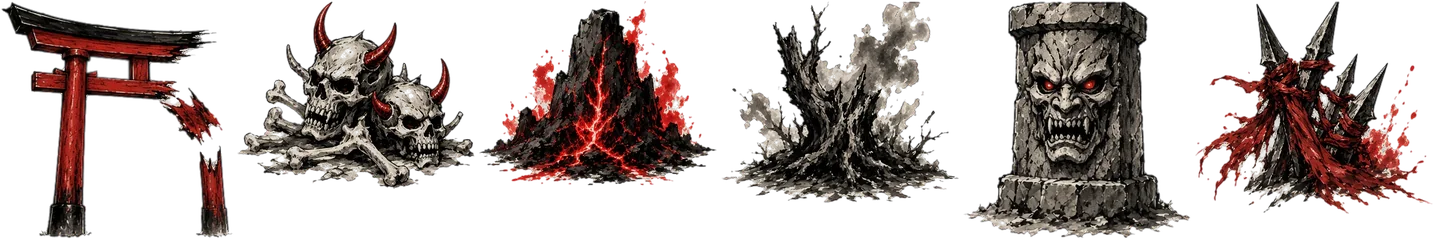
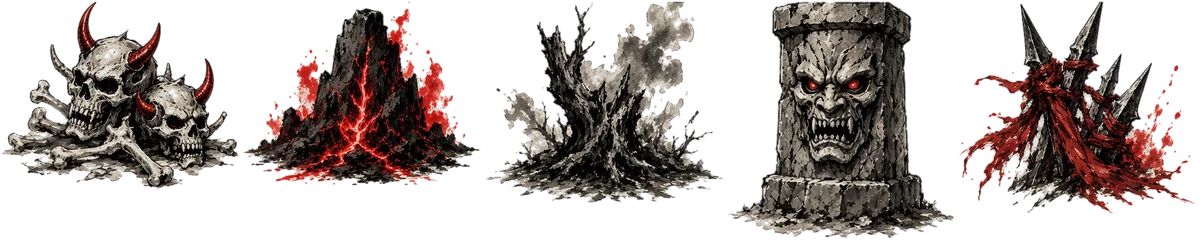
v3.2.3: remove the small torii gate props from the hell-gate and night-shrine scatter pools (painted background torii kept); seeded scenes refill from the remaining props

diff --git a/stage.js b/stage.js
@@ -48,6 +48,7 @@ export function createStage() {
   const sprites = {};
   const wx = createWeather();
   let lastQ = 'full';
+  let propInfo = null; // last bake's prop scatter (for tests)
   // props that carry a flame: frame index -> light height (fraction of prop height)
   const LANTERNS = { onryo: { 0: 0.6 }, shogun: { 0: 0.66 } };
 
@@ -132,6 +133,7 @@ export function createStage() {
       placed.push({ X, Y, dep, k, flip, sz });
     }
     placed.sort((a, b) => a.Y - b.Y);
+    propInfo = { theme: T.key, want: n, placed: placed.map((p) => p.k), pool: fr.length };
     const lights = [];
     for (const p of placed) {
       const f = fr[p.k], depth = p.dep;
@@ -401,6 +403,7 @@ export function createStage() {
     get _lastCam() { return bakeCam; },
     get theme() { return theme; },
     get weather() { return wx.info; },
+    get props() { return propInfo; },
     get block() { return block; },
     get transitioning() { return !!prev; },
     drawTransition, drawAmbient, drawBanner,

diff --git a/sw.js b/sw.js
@@ -1,7 +1,7 @@
 // Asura service worker — precaches the app shell so the game runs fully offline.
 // Bump VERSION on every release; the page shows "New version, tap to refresh".
 // Saves live in localStorage, which this worker never touches.
-const VERSION = 'asura-3.2.2';
+const VERSION = 'asura-3.2.3';
 // later stage themes are fetched lazily by the game and cached on first use; they are
 // also warmed in the background after activation so the whole game works offline
 const THEMES_LATER = ['tengu', 'shogun', 'orochi', 'onryo'].flatMap((t) => [`./assets/themes/${t}-bg.webp`, `./assets/themes/${t}-props.webp`]);

diff --git a/main.js b/main.js
@@ -6,7 +6,7 @@ import { createRenderer, fmt } from './render.js';
 const SAVE_KEY = 'asura-idle-save-v1';
 const PREFS_KEY = 'asura-idle-prefs-v1';
 const AUTOSAVE_MS = 5000;
-const APP_VERSION = '3.2.2'; // keep in step with VERSION in sw.js
+const APP_VERSION = '3.2.3'; // keep in step with VERSION in sw.js
 
 const UPS = {
   damage:   { name: 'Wrath',        desc: 'Raw striking power. Doubles every 25 levels.', f: (v) => fmt(v) },

diff --git a/tools/build_themes.py b/tools/build_themes.py
@@ -20,6 +20,9 @@ from keying import key_array, drop_paper
 
 # props whose enclosed white areas are painted (banner cloth, plaster wall), not paper
 PAINTED_WHITE = {('shogun', 1), ('shogun', 5)}
+# props left out of the scatter pools entirely (the small torii gates read wrong next
+# to the big painted torii in the plates; v3.2.3)
+DROP = {('oni', 0), ('onryo', 5)}
 
 def key(im, painted_white=False):
     # same keying as the characters: enclosed paper gaps (between willow strands,
@@ -57,6 +60,7 @@ for t in THEMES:
     frames = []
     for gy in range(2):
         for gx in range(3):
+            if (t, gy * 3 + gx) in DROP: continue
             cell = sheet[gy * sh // 2:(gy + 1) * sh // 2, gx * sw // 3:(gx + 1) * sw // 3]
             rgba = key(cell, (t, gy * 3 + gx) in PAINTED_WHITE)
             al = rgba[..., 3]
